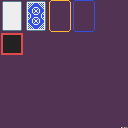
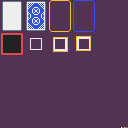
add button outline graphics

Changed region(s): [[0.5938, 0.2812, 0.7188, 0.4062], [0.4062, 0.2812, 0.5312, 0.4062], [0.2188, 0.2812, 0.3438, 0.4062]]

diff --git a/src/common/inner_common.rs b/src/common/inner_common.rs
@@ -239,22 +239,22 @@ pub const GFX: [u8; GFX_LENGTH] = [
 4, 2, 2, 2, 2, 2, 2, 2, 2, 2, 2, 2, 2, 2, 2, 2, 2, 2, 2, 2, 2, 2, 2, 4, 4, 4, 4, 4, 4, 4, 4, 4, 4, 4, 4, 4, 4, 4, 4, 4, 4, 4, 4, 4, 4, 4, 4, 4, 4, 4, 4, 4, 4, 4, 4, 4, 4, 4, 4, 4, 4, 4, 4, 4, 4, 4, 4, 4, 4, 4, 4, 4, 4, 4, 4, 4, 4, 4, 4, 4, 4, 4, 4, 4, 4, 4, 4, 4, 4, 4, 4, 4, 4, 4, 4, 4, 4, 4, 4, 4, 4, 4, 4, 4, 4, 4, 4, 4, 4, 4, 4, 4, 4, 4, 4, 4, 4, 4, 4, 4, 4, 4, 4, 4, 4, 4, 4, 4,
 4, 2, 2, 2, 2, 2, 2, 2, 2, 2, 2, 2, 2, 2, 2, 2, 2, 2, 2, 2, 2, 2, 2, 4, 4, 4, 4, 4, 4, 4, 4, 4, 4, 4, 4, 4, 4, 4, 4, 4, 4, 4, 4, 4, 4, 4, 4, 4, 4, 4, 4, 4, 4, 4, 4, 4, 4, 4, 4, 4, 4, 4, 4, 4, 4, 4, 4, 4, 4, 4, 4, 4, 4, 4, 4, 4, 4, 4, 4, 4, 4, 4, 4, 4, 4, 4, 4, 4, 4, 4, 4, 4, 4, 4, 4, 4, 4, 4, 4, 4, 4, 4, 4, 4, 4, 4, 4, 4, 4, 4, 4, 4, 4, 4, 4, 4, 4, 4, 4, 4, 4, 4, 4, 4, 4, 4, 4, 4,
 4, 2, 2, 7, 7, 7, 7, 7, 7, 7, 7, 7, 7, 7, 7, 7, 7, 7, 7, 7, 7, 2, 2, 4, 4, 4, 4, 4, 4, 4, 4, 4, 4, 4, 4, 4, 4, 4, 4, 4, 4, 4, 4, 4, 4, 4, 4, 4, 4, 4, 4, 4, 4, 4, 4, 4, 4, 4, 4, 4, 4, 4, 4, 4, 4, 4, 4, 4, 4, 4, 4, 4, 4, 4, 4, 4, 4, 4, 4, 4, 4, 4, 4, 4, 4, 4, 4, 4, 4, 4, 4, 4, 4, 4, 4, 4, 4, 4, 4, 4, 4, 4, 4, 4, 4, 4, 4, 4, 4, 4, 4, 4, 4, 4, 4, 4, 4, 4, 4, 4, 4, 4, 4, 4, 4, 4, 4, 4,
-4, 2, 2, 7, 7, 7, 7, 7, 7, 7, 7, 7, 7, 7, 7, 7, 7, 7, 7, 7, 7, 2, 2, 4, 4, 4, 4, 4, 4, 4, 4, 4, 4, 4, 4, 4, 4, 4, 4, 4, 4, 4, 4, 4, 4, 4, 4, 4, 4, 4, 4, 4, 4, 4, 4, 4, 4, 4, 4, 4, 4, 4, 4, 4, 4, 4, 4, 4, 4, 4, 4, 4, 4, 4, 4, 4, 4, 4, 4, 4, 4, 4, 4, 4, 4, 4, 4, 4, 4, 4, 4, 4, 4, 4, 4, 4, 4, 4, 4, 4, 4, 4, 4, 4, 4, 4, 4, 4, 4, 4, 4, 4, 4, 4, 4, 4, 4, 4, 4, 4, 4, 4, 4, 4, 4, 4, 4, 4,
-4, 2, 2, 7, 7, 7, 7, 7, 7, 7, 7, 7, 7, 7, 7, 7, 7, 7, 7, 7, 7, 2, 2, 4, 4, 4, 4, 4, 4, 4, 4, 4, 4, 4, 4, 4, 4, 4, 4, 4, 4, 4, 4, 4, 4, 4, 4, 4, 4, 4, 4, 4, 4, 4, 4, 4, 4, 4, 4, 4, 4, 4, 4, 4, 4, 4, 4, 4, 4, 4, 4, 4, 4, 4, 4, 4, 4, 4, 4, 4, 4, 4, 4, 4, 4, 4, 4, 4, 4, 4, 4, 4, 4, 4, 4, 4, 4, 4, 4, 4, 4, 4, 4, 4, 4, 4, 4, 4, 4, 4, 4, 4, 4, 4, 4, 4, 4, 4, 4, 4, 4, 4, 4, 4, 4, 4, 4, 4,
-4, 2, 2, 7, 7, 7, 7, 7, 7, 7, 7, 7, 7, 7, 7, 7, 7, 7, 7, 7, 7, 2, 2, 4, 4, 4, 4, 4, 4, 4, 4, 4, 4, 4, 4, 4, 4, 4, 4, 4, 4, 4, 4, 4, 4, 4, 4, 4, 4, 4, 4, 4, 4, 4, 4, 4, 4, 4, 4, 4, 4, 4, 4, 4, 4, 4, 4, 4, 4, 4, 4, 4, 4, 4, 4, 4, 4, 4, 4, 4, 4, 4, 4, 4, 4, 4, 4, 4, 4, 4, 4, 4, 4, 4, 4, 4, 4, 4, 4, 4, 4, 4, 4, 4, 4, 4, 4, 4, 4, 4, 4, 4, 4, 4, 4, 4, 4, 4, 4, 4, 4, 4, 4, 4, 4, 4, 4, 4,
-4, 2, 2, 7, 7, 7, 7, 7, 7, 7, 7, 7, 7, 7, 7, 7, 7, 7, 7, 7, 7, 2, 2, 4, 4, 4, 4, 4, 4, 4, 4, 4, 4, 4, 4, 4, 4, 4, 4, 4, 4, 4, 4, 4, 4, 4, 4, 4, 4, 4, 4, 4, 4, 4, 4, 4, 4, 4, 4, 4, 4, 4, 4, 4, 4, 4, 4, 4, 4, 4, 4, 4, 4, 4, 4, 4, 4, 4, 4, 4, 4, 4, 4, 4, 4, 4, 4, 4, 4, 4, 4, 4, 4, 4, 4, 4, 4, 4, 4, 4, 4, 4, 4, 4, 4, 4, 4, 4, 4, 4, 4, 4, 4, 4, 4, 4, 4, 4, 4, 4, 4, 4, 4, 4, 4, 4, 4, 4,
-4, 2, 2, 7, 7, 7, 7, 7, 7, 7, 7, 7, 7, 7, 7, 7, 7, 7, 7, 7, 7, 2, 2, 4, 4, 4, 4, 4, 4, 4, 4, 4, 4, 4, 4, 4, 4, 4, 4, 4, 4, 4, 4, 4, 4, 4, 4, 4, 4, 4, 4, 4, 4, 4, 4, 4, 4, 4, 4, 4, 4, 4, 4, 4, 4, 4, 4, 4, 4, 4, 4, 4, 4, 4, 4, 4, 4, 4, 4, 4, 4, 4, 4, 4, 4, 4, 4, 4, 4, 4, 4, 4, 4, 4, 4, 4, 4, 4, 4, 4, 4, 4, 4, 4, 4, 4, 4, 4, 4, 4, 4, 4, 4, 4, 4, 4, 4, 4, 4, 4, 4, 4, 4, 4, 4, 4, 4, 4,
-4, 2, 2, 7, 7, 7, 7, 7, 7, 7, 7, 7, 7, 7, 7, 7, 7, 7, 7, 7, 7, 2, 2, 4, 4, 4, 4, 4, 4, 4, 4, 4, 4, 4, 4, 4, 4, 4, 4, 4, 4, 4, 4, 4, 4, 4, 4, 4, 4, 4, 4, 4, 4, 4, 4, 4, 4, 4, 4, 4, 4, 4, 4, 4, 4, 4, 4, 4, 4, 4, 4, 4, 4, 4, 4, 4, 4, 4, 4, 4, 4, 4, 4, 4, 4, 4, 4, 4, 4, 4, 4, 4, 4, 4, 4, 4, 4, 4, 4, 4, 4, 4, 4, 4, 4, 4, 4, 4, 4, 4, 4, 4, 4, 4, 4, 4, 4, 4, 4, 4, 4, 4, 4, 4, 4, 4, 4, 4,
-4, 2, 2, 7, 7, 7, 7, 7, 7, 7, 7, 7, 7, 7, 7, 7, 7, 7, 7, 7, 7, 2, 2, 4, 4, 4, 4, 4, 4, 4, 4, 4, 4, 4, 4, 4, 4, 4, 4, 4, 4, 4, 4, 4, 4, 4, 4, 4, 4, 4, 4, 4, 4, 4, 4, 4, 4, 4, 4, 4, 4, 4, 4, 4, 4, 4, 4, 4, 4, 4, 4, 4, 4, 4, 4, 4, 4, 4, 4, 4, 4, 4, 4, 4, 4, 4, 4, 4, 4, 4, 4, 4, 4, 4, 4, 4, 4, 4, 4, 4, 4, 4, 4, 4, 4, 4, 4, 4, 4, 4, 4, 4, 4, 4, 4, 4, 4, 4, 4, 4, 4, 4, 4, 4, 4, 4, 4, 4,
-4, 2, 2, 7, 7, 7, 7, 7, 7, 7, 7, 7, 7, 7, 7, 7, 7, 7, 7, 7, 7, 2, 2, 4, 4, 4, 4, 4, 4, 4, 4, 4, 4, 4, 4, 4, 4, 4, 4, 4, 4, 4, 4, 4, 4, 4, 4, 4, 4, 4, 4, 4, 4, 4, 4, 4, 4, 4, 4, 4, 4, 4, 4, 4, 4, 4, 4, 4, 4, 4, 4, 4, 4, 4, 4, 4, 4, 4, 4, 4, 4, 4, 4, 4, 4, 4, 4, 4, 4, 4, 4, 4, 4, 4, 4, 4, 4, 4, 4, 4, 4, 4, 4, 4, 4, 4, 4, 4, 4, 4, 4, 4, 4, 4, 4, 4, 4, 4, 4, 4, 4, 4, 4, 4, 4, 4, 4, 4,
-4, 2, 2, 7, 7, 7, 7, 7, 7, 7, 7, 7, 7, 7, 7, 7, 7, 7, 7, 7, 7, 2, 2, 4, 4, 4, 4, 4, 4, 4, 4, 4, 4, 4, 4, 4, 4, 4, 4, 4, 4, 4, 4, 4, 4, 4, 4, 4, 4, 4, 4, 4, 4, 4, 4, 4, 4, 4, 4, 4, 4, 4, 4, 4, 4, 4, 4, 4, 4, 4, 4, 4, 4, 4, 4, 4, 4, 4, 4, 4, 4, 4, 4, 4, 4, 4, 4, 4, 4, 4, 4, 4, 4, 4, 4, 4, 4, 4, 4, 4, 4, 4, 4, 4, 4, 4, 4, 4, 4, 4, 4, 4, 4, 4, 4, 4, 4, 4, 4, 4, 4, 4, 4, 4, 4, 4, 4, 4,
-4, 2, 2, 7, 7, 7, 7, 7, 7, 7, 7, 7, 7, 7, 7, 7, 7, 7, 7, 7, 7, 2, 2, 4, 4, 4, 4, 4, 4, 4, 4, 4, 4, 4, 4, 4, 4, 4, 4, 4, 4, 4, 4, 4, 4, 4, 4, 4, 4, 4, 4, 4, 4, 4, 4, 4, 4, 4, 4, 4, 4, 4, 4, 4, 4, 4, 4, 4, 4, 4, 4, 4, 4, 4, 4, 4, 4, 4, 4, 4, 4, 4, 4, 4, 4, 4, 4, 4, 4, 4, 4, 4, 4, 4, 4, 4, 4, 4, 4, 4, 4, 4, 4, 4, 4, 4, 4, 4, 4, 4, 4, 4, 4, 4, 4, 4, 4, 4, 4, 4, 4, 4, 4, 4, 4, 4, 4, 4,
-4, 2, 2, 7, 7, 7, 7, 7, 7, 7, 7, 7, 7, 7, 7, 7, 7, 7, 7, 7, 7, 2, 2, 4, 4, 4, 4, 4, 4, 4, 4, 4, 4, 4, 4, 4, 4, 4, 4, 4, 4, 4, 4, 4, 4, 4, 4, 4, 4, 4, 4, 4, 4, 4, 4, 4, 4, 4, 4, 4, 4, 4, 4, 4, 4, 4, 4, 4, 4, 4, 4, 4, 4, 4, 4, 4, 4, 4, 4, 4, 4, 4, 4, 4, 4, 4, 4, 4, 4, 4, 4, 4, 4, 4, 4, 4, 4, 4, 4, 4, 4, 4, 4, 4, 4, 4, 4, 4, 4, 4, 4, 4, 4, 4, 4, 4, 4, 4, 4, 4, 4, 4, 4, 4, 4, 4, 4, 4,
-4, 2, 2, 7, 7, 7, 7, 7, 7, 7, 7, 7, 7, 7, 7, 7, 7, 7, 7, 7, 7, 2, 2, 4, 4, 4, 4, 4, 4, 4, 4, 4, 4, 4, 4, 4, 4, 4, 4, 4, 4, 4, 4, 4, 4, 4, 4, 4, 4, 4, 4, 4, 4, 4, 4, 4, 4, 4, 4, 4, 4, 4, 4, 4, 4, 4, 4, 4, 4, 4, 4, 4, 4, 4, 4, 4, 4, 4, 4, 4, 4, 4, 4, 4, 4, 4, 4, 4, 4, 4, 4, 4, 4, 4, 4, 4, 4, 4, 4, 4, 4, 4, 4, 4, 4, 4, 4, 4, 4, 4, 4, 4, 4, 4, 4, 4, 4, 4, 4, 4, 4, 4, 4, 4, 4, 4, 4, 4,
-4, 2, 2, 7, 7, 7, 7, 7, 7, 7, 7, 7, 7, 7, 7, 7, 7, 7, 7, 7, 7, 2, 2, 4, 4, 4, 4, 4, 4, 4, 4, 4, 4, 4, 4, 4, 4, 4, 4, 4, 4, 4, 4, 4, 4, 4, 4, 4, 4, 4, 4, 4, 4, 4, 4, 4, 4, 4, 4, 4, 4, 4, 4, 4, 4, 4, 4, 4, 4, 4, 4, 4, 4, 4, 4, 4, 4, 4, 4, 4, 4, 4, 4, 4, 4, 4, 4, 4, 4, 4, 4, 4, 4, 4, 4, 4, 4, 4, 4, 4, 4, 4, 4, 4, 4, 4, 4, 4, 4, 4, 4, 4, 4, 4, 4, 4, 4, 4, 4, 4, 4, 4, 4, 4, 4, 4, 4, 4,
-4, 2, 2, 7, 7, 7, 7, 7, 7, 7, 7, 7, 7, 7, 7, 7, 7, 7, 7, 7, 7, 2, 2, 4, 4, 4, 4, 4, 4, 4, 4, 4, 4, 4, 4, 4, 4, 4, 4, 4, 4, 4, 4, 4, 4, 4, 4, 4, 4, 4, 4, 4, 4, 4, 4, 4, 4, 4, 4, 4, 4, 4, 4, 4, 4, 4, 4, 4, 4, 4, 4, 4, 4, 4, 4, 4, 4, 4, 4, 4, 4, 4, 4, 4, 4, 4, 4, 4, 4, 4, 4, 4, 4, 4, 4, 4, 4, 4, 4, 4, 4, 4, 4, 4, 4, 4, 4, 4, 4, 4, 4, 4, 4, 4, 4, 4, 4, 4, 4, 4, 4, 4, 4, 4, 4, 4, 4, 4,
-4, 2, 2, 7, 7, 7, 7, 7, 7, 7, 7, 7, 7, 7, 7, 7, 7, 7, 7, 7, 7, 2, 2, 4, 4, 4, 4, 4, 4, 4, 4, 4, 4, 4, 4, 4, 4, 4, 4, 4, 4, 4, 4, 4, 4, 4, 4, 4, 4, 4, 4, 4, 4, 4, 4, 4, 4, 4, 4, 4, 4, 4, 4, 4, 4, 4, 4, 4, 4, 4, 4, 4, 4, 4, 4, 4, 4, 4, 4, 4, 4, 4, 4, 4, 4, 4, 4, 4, 4, 4, 4, 4, 4, 4, 4, 4, 4, 4, 4, 4, 4, 4, 4, 4, 4, 4, 4, 4, 4, 4, 4, 4, 4, 4, 4, 4, 4, 4, 4, 4, 4, 4, 4, 4, 4, 4, 4, 4,
-4, 2, 2, 7, 7, 7, 7, 7, 7, 7, 7, 7, 7, 7, 7, 7, 7, 7, 7, 7, 7, 2, 2, 4, 4, 4, 4, 4, 4, 4, 4, 4, 4, 4, 4, 4, 4, 4, 4, 4, 4, 4, 4, 4, 4, 4, 4, 4, 4, 4, 4, 4, 4, 4, 4, 4, 4, 4, 4, 4, 4, 4, 4, 4, 4, 4, 4, 4, 4, 4, 4, 4, 4, 4, 4, 4, 4, 4, 4, 4, 4, 4, 4, 4, 4, 4, 4, 4, 4, 4, 4, 4, 4, 4, 4, 4, 4, 4, 4, 4, 4, 4, 4, 4, 4, 4, 4, 4, 4, 4, 4, 4, 4, 4, 4, 4, 4, 4, 4, 4, 4, 4, 4, 4, 4, 4, 4, 4,
+4, 2, 2, 7, 7, 7, 7, 7, 7, 7, 7, 7, 7, 7, 7, 7, 7, 7, 7, 7, 7, 2, 2, 4, 4, 4, 4, 4, 4, 4, 4, 4, 4, 4, 4, 4, 4, 4, 4, 4, 4, 4, 4, 4, 4, 4, 4, 4, 4, 4, 4, 4, 4, 4, 4, 4, 4, 4, 4, 4, 4, 4, 4, 4, 4, 4, 4, 4, 4, 4, 4, 4, 4, 4, 4, 4, 3, 3, 3, 3, 3, 3, 3, 3, 3, 3, 3, 3, 3, 3, 3, 4, 4, 4, 4, 4, 4, 4, 4, 4, 4, 4, 4, 4, 4, 4, 4, 4, 4, 4, 4, 4, 4, 4, 4, 4, 4, 4, 4, 4, 4, 4, 4, 4, 4, 4, 4, 4,
+4, 2, 2, 7, 7, 7, 7, 7, 7, 7, 7, 7, 7, 7, 7, 7, 7, 7, 7, 7, 7, 2, 2, 4, 4, 4, 4, 4, 4, 4, 4, 4, 4, 4, 4, 4, 4, 4, 4, 4, 4, 4, 4, 4, 4, 4, 4, 4, 4, 4, 4, 4, 4, 3, 3, 3, 3, 3, 3, 3, 3, 3, 3, 3, 3, 3, 3, 3, 4, 4, 4, 4, 4, 4, 4, 4, 3, 6, 6, 6, 6, 6, 6, 6, 6, 6, 6, 6, 6, 6, 3, 4, 4, 4, 4, 4, 4, 4, 4, 4, 4, 4, 4, 4, 4, 4, 4, 4, 4, 4, 4, 4, 4, 4, 4, 4, 4, 4, 4, 4, 4, 4, 4, 4, 4, 4, 4, 4,
+4, 2, 2, 7, 7, 7, 7, 7, 7, 7, 7, 7, 7, 7, 7, 7, 7, 7, 7, 7, 7, 2, 2, 4, 4, 4, 4, 4, 4, 4, 6, 6, 6, 6, 6, 6, 6, 6, 6, 6, 6, 6, 4, 4, 4, 4, 4, 4, 4, 4, 4, 4, 4, 3, 6, 6, 6, 6, 6, 6, 6, 6, 6, 6, 6, 6, 6, 3, 4, 4, 4, 4, 4, 4, 4, 4, 3, 6, 6, 6, 6, 6, 6, 6, 6, 6, 6, 6, 6, 6, 3, 4, 4, 4, 4, 4, 4, 4, 4, 4, 4, 4, 4, 4, 4, 4, 4, 4, 4, 4, 4, 4, 4, 4, 4, 4, 4, 4, 4, 4, 4, 4, 4, 4, 4, 4, 4, 4,
+4, 2, 2, 7, 7, 7, 7, 7, 7, 7, 7, 7, 7, 7, 7, 7, 7, 7, 7, 7, 7, 2, 2, 4, 4, 4, 4, 4, 4, 4, 6, 4, 4, 4, 4, 4, 4, 4, 4, 4, 4, 6, 4, 4, 4, 4, 4, 4, 4, 4, 4, 4, 4, 3, 6, 4, 4, 4, 4, 4, 4, 4, 4, 4, 4, 6, 6, 3, 4, 4, 4, 4, 4, 4, 4, 4, 3, 6, 6, 4, 4, 4, 4, 4, 4, 4, 4, 4, 4, 6, 3, 4, 4, 4, 4, 4, 4, 4, 4, 4, 4, 4, 4, 4, 4, 4, 4, 4, 4, 4, 4, 4, 4, 4, 4, 4, 4, 4, 4, 4, 4, 4, 4, 4, 4, 4, 4, 4,
+4, 2, 2, 7, 7, 7, 7, 7, 7, 7, 7, 7, 7, 7, 7, 7, 7, 7, 7, 7, 7, 2, 2, 4, 4, 4, 4, 4, 4, 4, 6, 4, 4, 4, 4, 4, 4, 4, 4, 4, 4, 6, 4, 4, 4, 4, 4, 4, 4, 4, 4, 4, 4, 3, 6, 4, 4, 4, 4, 4, 4, 4, 4, 4, 4, 6, 6, 3, 4, 4, 4, 4, 4, 4, 4, 4, 3, 6, 6, 4, 4, 4, 4, 4, 4, 4, 4, 4, 4, 6, 3, 4, 4, 4, 4, 4, 4, 4, 4, 4, 4, 4, 4, 4, 4, 4, 4, 4, 4, 4, 4, 4, 4, 4, 4, 4, 4, 4, 4, 4, 4, 4, 4, 4, 4, 4, 4, 4,
+4, 2, 2, 7, 7, 7, 7, 7, 7, 7, 7, 7, 7, 7, 7, 7, 7, 7, 7, 7, 7, 2, 2, 4, 4, 4, 4, 4, 4, 4, 6, 4, 4, 4, 4, 4, 4, 4, 4, 4, 4, 6, 4, 4, 4, 4, 4, 4, 4, 4, 4, 4, 4, 3, 6, 4, 4, 4, 4, 4, 4, 4, 4, 4, 4, 6, 6, 3, 4, 4, 4, 4, 4, 4, 4, 4, 3, 6, 6, 4, 4, 4, 4, 4, 4, 4, 4, 4, 4, 6, 3, 4, 4, 4, 4, 4, 4, 4, 4, 4, 4, 4, 4, 4, 4, 4, 4, 4, 4, 4, 4, 4, 4, 4, 4, 4, 4, 4, 4, 4, 4, 4, 4, 4, 4, 4, 4, 4,
+4, 2, 2, 7, 7, 7, 7, 7, 7, 7, 7, 7, 7, 7, 7, 7, 7, 7, 7, 7, 7, 2, 2, 4, 4, 4, 4, 4, 4, 4, 6, 4, 4, 4, 4, 4, 4, 4, 4, 4, 4, 6, 4, 4, 4, 4, 4, 4, 4, 4, 4, 4, 4, 3, 6, 4, 4, 4, 4, 4, 4, 4, 4, 4, 4, 6, 6, 3, 4, 4, 4, 4, 4, 4, 4, 4, 3, 6, 6, 4, 4, 4, 4, 4, 4, 4, 4, 4, 4, 6, 3, 4, 4, 4, 4, 4, 4, 4, 4, 4, 4, 4, 4, 4, 4, 4, 4, 4, 4, 4, 4, 4, 4, 4, 4, 4, 4, 4, 4, 4, 4, 4, 4, 4, 4, 4, 4, 4,
+4, 2, 2, 7, 7, 7, 7, 7, 7, 7, 7, 7, 7, 7, 7, 7, 7, 7, 7, 7, 7, 2, 2, 4, 4, 4, 4, 4, 4, 4, 6, 4, 4, 4, 4, 4, 4, 4, 4, 4, 4, 6, 4, 4, 4, 4, 4, 4, 4, 4, 4, 4, 4, 3, 6, 4, 4, 4, 4, 4, 4, 4, 4, 4, 4, 6, 6, 3, 4, 4, 4, 4, 4, 4, 4, 4, 3, 6, 6, 4, 4, 4, 4, 4, 4, 4, 4, 4, 4, 6, 3, 4, 4, 4, 4, 4, 4, 4, 4, 4, 4, 4, 4, 4, 4, 4, 4, 4, 4, 4, 4, 4, 4, 4, 4, 4, 4, 4, 4, 4, 4, 4, 4, 4, 4, 4, 4, 4,
+4, 2, 2, 7, 7, 7, 7, 7, 7, 7, 7, 7, 7, 7, 7, 7, 7, 7, 7, 7, 7, 2, 2, 4, 4, 4, 4, 4, 4, 4, 6, 4, 4, 4, 4, 4, 4, 4, 4, 4, 4, 6, 4, 4, 4, 4, 4, 4, 4, 4, 4, 4, 4, 3, 6, 4, 4, 4, 4, 4, 4, 4, 4, 4, 4, 6, 6, 3, 4, 4, 4, 4, 4, 4, 4, 4, 3, 6, 6, 4, 4, 4, 4, 4, 4, 4, 4, 4, 4, 6, 3, 4, 4, 4, 4, 4, 4, 4, 4, 4, 4, 4, 4, 4, 4, 4, 4, 4, 4, 4, 4, 4, 4, 4, 4, 4, 4, 4, 4, 4, 4, 4, 4, 4, 4, 4, 4, 4,
+4, 2, 2, 7, 7, 7, 7, 7, 7, 7, 7, 7, 7, 7, 7, 7, 7, 7, 7, 7, 7, 2, 2, 4, 4, 4, 4, 4, 4, 4, 6, 4, 4, 4, 4, 4, 4, 4, 4, 4, 4, 6, 4, 4, 4, 4, 4, 4, 4, 4, 4, 4, 4, 3, 6, 4, 4, 4, 4, 4, 4, 4, 4, 4, 4, 6, 6, 3, 4, 4, 4, 4, 4, 4, 4, 4, 3, 6, 6, 4, 4, 4, 4, 4, 4, 4, 4, 4, 4, 6, 3, 4, 4, 4, 4, 4, 4, 4, 4, 4, 4, 4, 4, 4, 4, 4, 4, 4, 4, 4, 4, 4, 4, 4, 4, 4, 4, 4, 4, 4, 4, 4, 4, 4, 4, 4, 4, 4,
+4, 2, 2, 7, 7, 7, 7, 7, 7, 7, 7, 7, 7, 7, 7, 7, 7, 7, 7, 7, 7, 2, 2, 4, 4, 4, 4, 4, 4, 4, 6, 4, 4, 4, 4, 4, 4, 4, 4, 4, 4, 6, 4, 4, 4, 4, 4, 4, 4, 4, 4, 4, 4, 3, 6, 4, 4, 4, 4, 4, 4, 4, 4, 4, 4, 6, 6, 3, 4, 4, 4, 4, 4, 4, 4, 4, 3, 6, 6, 4, 4, 4, 4, 4, 4, 4, 4, 4, 4, 6, 3, 4, 4, 4, 4, 4, 4, 4, 4, 4, 4, 4, 4, 4, 4, 4, 4, 4, 4, 4, 4, 4, 4, 4, 4, 4, 4, 4, 4, 4, 4, 4, 4, 4, 4, 4, 4, 4,
+4, 2, 2, 7, 7, 7, 7, 7, 7, 7, 7, 7, 7, 7, 7, 7, 7, 7, 7, 7, 7, 2, 2, 4, 4, 4, 4, 4, 4, 4, 6, 4, 4, 4, 4, 4, 4, 4, 4, 4, 4, 6, 4, 4, 4, 4, 4, 4, 4, 4, 4, 4, 4, 3, 6, 4, 4, 4, 4, 4, 4, 4, 4, 4, 4, 6, 6, 3, 4, 4, 4, 4, 4, 4, 4, 4, 3, 6, 6, 4, 4, 4, 4, 4, 4, 4, 4, 4, 4, 6, 3, 4, 4, 4, 4, 4, 4, 4, 4, 4, 4, 4, 4, 4, 4, 4, 4, 4, 4, 4, 4, 4, 4, 4, 4, 4, 4, 4, 4, 4, 4, 4, 4, 4, 4, 4, 4, 4,
+4, 2, 2, 7, 7, 7, 7, 7, 7, 7, 7, 7, 7, 7, 7, 7, 7, 7, 7, 7, 7, 2, 2, 4, 4, 4, 4, 4, 4, 4, 6, 4, 4, 4, 4, 4, 4, 4, 4, 4, 4, 6, 4, 4, 4, 4, 4, 4, 4, 4, 4, 4, 4, 3, 6, 4, 4, 4, 4, 4, 4, 4, 4, 4, 4, 6, 6, 3, 4, 4, 4, 4, 4, 4, 4, 4, 3, 6, 6, 4, 4, 4, 4, 4, 4, 4, 4, 4, 4, 6, 3, 4, 4, 4, 4, 4, 4, 4, 4, 4, 4, 4, 4, 4, 4, 4, 4, 4, 4, 4, 4, 4, 4, 4, 4, 4, 4, 4, 4, 4, 4, 4, 4, 4, 4, 4, 4, 4,
+4, 2, 2, 7, 7, 7, 7, 7, 7, 7, 7, 7, 7, 7, 7, 7, 7, 7, 7, 7, 7, 2, 2, 4, 4, 4, 4, 4, 4, 4, 6, 6, 6, 6, 6, 6, 6, 6, 6, 6, 6, 6, 4, 4, 4, 4, 4, 4, 4, 4, 4, 4, 4, 3, 6, 6, 6, 6, 6, 6, 6, 6, 6, 6, 6, 6, 6, 3, 4, 4, 4, 4, 4, 4, 4, 4, 3, 6, 6, 6, 6, 6, 6, 6, 6, 6, 6, 6, 6, 6, 3, 4, 4, 4, 4, 4, 4, 4, 4, 4, 4, 4, 4, 4, 4, 4, 4, 4, 4, 4, 4, 4, 4, 4, 4, 4, 4, 4, 4, 4, 4, 4, 4, 4, 4, 4, 4, 4,
+4, 2, 2, 7, 7, 7, 7, 7, 7, 7, 7, 7, 7, 7, 7, 7, 7, 7, 7, 7, 7, 2, 2, 4, 4, 4, 4, 4, 4, 4, 4, 4, 4, 4, 4, 4, 4, 4, 4, 4, 4, 4, 4, 4, 4, 4, 4, 4, 4, 4, 4, 4, 4, 3, 6, 6, 6, 6, 6, 6, 6, 6, 6, 6, 6, 6, 6, 3, 4, 4, 4, 4, 4, 4, 4, 4, 3, 3, 3, 3, 3, 3, 3, 3, 3, 3, 3, 3, 3, 3, 3, 4, 4, 4, 4, 4, 4, 4, 4, 4, 4, 4, 4, 4, 4, 4, 4, 4, 4, 4, 4, 4, 4, 4, 4, 4, 4, 4, 4, 4, 4, 4, 4, 4, 4, 4, 4, 4,
+4, 2, 2, 7, 7, 7, 7, 7, 7, 7, 7, 7, 7, 7, 7, 7, 7, 7, 7, 7, 7, 2, 2, 4, 4, 4, 4, 4, 4, 4, 4, 4, 4, 4, 4, 4, 4, 4, 4, 4, 4, 4, 4, 4, 4, 4, 4, 4, 4, 4, 4, 4, 4, 3, 3, 3, 3, 3, 3, 3, 3, 3, 3, 3, 3, 3, 3, 3, 4, 4, 4, 4, 4, 4, 4, 4, 4, 4, 4, 4, 4, 4, 4, 4, 4, 4, 4, 4, 4, 4, 4, 4, 4, 4, 4, 4, 4, 4, 4, 4, 4, 4, 4, 4, 4, 4, 4, 4, 4, 4, 4, 4, 4, 4, 4, 4, 4, 4, 4, 4, 4, 4, 4, 4, 4, 4, 4, 4,
 4, 2, 2, 7, 7, 7, 7, 7, 7, 7, 7, 7, 7, 7, 7, 7, 7, 7, 7, 7, 7, 2, 2, 4, 4, 4, 4, 4, 4, 4, 4, 4, 4, 4, 4, 4, 4, 4, 4, 4, 4, 4, 4, 4, 4, 4, 4, 4, 4, 4, 4, 4, 4, 4, 4, 4, 4, 4, 4, 4, 4, 4, 4, 4, 4, 4, 4, 4, 4, 4, 4, 4, 4, 4, 4, 4, 4, 4, 4, 4, 4, 4, 4, 4, 4, 4, 4, 4, 4, 4, 4, 4, 4, 4, 4, 4, 4, 4, 4, 4, 4, 4, 4, 4, 4, 4, 4, 4, 4, 4, 4, 4, 4, 4, 4, 4, 4, 4, 4, 4, 4, 4, 4, 4, 4, 4, 4, 4,
 4, 2, 2, 2, 2, 2, 2, 2, 2, 2, 2, 2, 2, 2, 2, 2, 2, 2, 2, 2, 2, 2, 2, 4, 4, 4, 4, 4, 4, 4, 4, 4, 4, 4, 4, 4, 4, 4, 4, 4, 4, 4, 4, 4, 4, 4, 4, 4, 4, 4, 4, 4, 4, 4, 4, 4, 4, 4, 4, 4, 4, 4, 4, 4, 4, 4, 4, 4, 4, 4, 4, 4, 4, 4, 4, 4, 4, 4, 4, 4, 4, 4, 4, 4, 4, 4, 4, 4, 4, 4, 4, 4, 4, 4, 4, 4, 4, 4, 4, 4, 4, 4, 4, 4, 4, 4, 4, 4, 4, 4, 4, 4, 4, 4, 4, 4, 4, 4, 4, 4, 4, 4, 4, 4, 4, 4, 4, 4,
 4, 2, 2, 2, 2, 2, 2, 2, 2, 2, 2, 2, 2, 2, 2, 2, 2, 2, 2, 2, 2, 2, 2, 4, 4, 4, 4, 4, 4, 4, 4, 4, 4, 4, 4, 4, 4, 4, 4, 4, 4, 4, 4, 4, 4, 4, 4, 4, 4, 4, 4, 4, 4, 4, 4, 4, 4, 4, 4, 4, 4, 4, 4, 4, 4, 4, 4, 4, 4, 4, 4, 4, 4, 4, 4, 4, 4, 4, 4, 4, 4, 4, 4, 4, 4, 4, 4, 4, 4, 4, 4, 4, 4, 4, 4, 4, 4, 4, 4, 4, 4, 4, 4, 4, 4, 4, 4, 4, 4, 4, 4, 4, 4, 4, 4, 4, 4, 4, 4, 4, 4, 4, 4, 4, 4, 4, 4, 4,
@@ -331,7 +331,8 @@ pub const GFX: [u8; GFX_LENGTH] = [
 4, 4, 4, 4, 4, 4, 4, 4, 4, 4, 4, 4, 4, 4, 4, 4, 4, 4, 4, 4, 4, 4, 4, 4, 4, 4, 4, 4, 4, 4, 4, 4, 4, 4, 4, 4, 4, 4, 4, 4, 4, 4, 4, 4, 4, 4, 4, 4, 4, 4, 4, 4, 4, 4, 4, 4, 4, 4, 4, 4, 4, 4, 4, 4, 4, 4, 4, 4, 4, 4, 4, 4, 4, 4, 4, 4, 4, 4, 4, 4, 4, 4, 4, 4, 4, 4, 4, 4, 4, 4, 4, 4, 4, 4, 4, 4, 4, 4, 4, 4, 4, 4, 4, 4, 4, 4, 4, 4, 4, 4, 4, 4, 4, 4, 4, 4, 4, 4, 4, 4, 4, 4, 4, 4, 4, 4, 4, 4,
 4, 4, 4, 4, 4, 4, 4, 4, 4, 4, 4, 4, 4, 4, 4, 4, 4, 4, 4, 4, 4, 4, 4, 4, 4, 4, 4, 4, 4, 4, 4, 4, 4, 4, 4, 4, 4, 4, 4, 4, 4, 4, 4, 4, 4, 4, 4, 4, 4, 4, 4, 4, 4, 4, 4, 4, 4, 4, 4, 4, 4, 4, 4, 4, 4, 4, 4, 4, 4, 4, 4, 4, 4, 4, 4, 4, 4, 4, 4, 4, 4, 4, 4, 4, 4, 4, 4, 4, 4, 4, 4, 4, 4, 4, 4, 4, 4, 4, 4, 4, 4, 4, 4, 4, 4, 4, 4, 4, 4, 4, 4, 4, 4, 4, 4, 4, 4, 4, 4, 4, 4, 4, 4, 4, 4, 4, 4, 4,
 4, 4, 4, 4, 4, 4, 4, 4, 4, 4, 4, 4, 4, 4, 4, 4, 4, 4, 4, 4, 4, 4, 4, 4, 4, 4, 4, 4, 4, 4, 4, 4, 4, 4, 4, 4, 4, 4, 4, 4, 4, 4, 4, 4, 4, 4, 4, 4, 4, 4, 4, 4, 4, 4, 4, 4, 4, 4, 4, 4, 4, 4, 4, 4, 4, 4, 4, 4, 4, 4, 4, 4, 4, 4, 4, 4, 4, 4, 4, 4, 4, 4, 4, 4, 4, 4, 4, 4, 4, 4, 4, 4, 4, 4, 4, 4, 4, 4, 4, 4, 4, 4, 4, 4, 4, 4, 4, 4, 4, 4, 4, 4, 4, 4, 4, 4, 4, 4, 4, 4, 7, 6, 5, 4, 3, 2, 1, 0,
-];
+]
+;
 
 pub const FONT_WIDTH: usize = 128;
 pub const FONT_HEIGHT: usize = 128;
